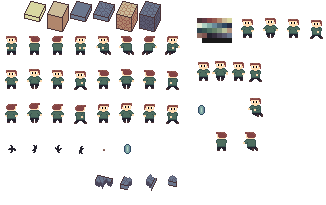
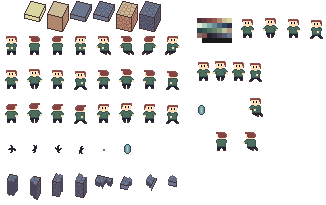
fragile wall animation

Changed region(s): [[0.1534, 0.8488, 0.2761, 0.9659], [0.0, 0.8488, 0.0613, 0.9659], [0.092, 0.8488, 0.1227, 0.9659]]

diff --git a/script/Tiles.js b/script/Tiles.js
@@ -140,7 +140,35 @@ ld49.tiles.FragileWall = class extends Tile {
     }
 
     pullTrigger(game) {
-        game.tiles[this.y][this.x] = new ld49.tiles.Void(this.x, this.y);
+        const tile = new ld49.tiles.FallingWall(this.x, this.y);
+        game.tiles[this.y][this.x] = tile;
+        tile.animate();
+    }
+};
+
+ld49.tiles.FallingWall = class extends Tile {
+    constructor(x, y) {
+        super(6, x, y, false, true, false);
+        this.fall = 0;
+    }
+
+    update(game, dt) {
+        this.fall -= dt * 1.5;
+        if (this.fall < 0) {
+            this.fall = 0;
+        }
+    }
+
+    draw(renderer) {
+        if (this.fall > 0) {
+            const progress = 1 - this.fall;
+            const z = (progress - 0.2) * (progress - 0.2) * -4.5 + 0.18;
+            renderer.draw(this.icon, this.x, this.y, z);
+        }
+    }
+
+    animate() {
+        this.fall = 1;
     }
 };
 

diff --git a/script/Renderer.js b/script/Renderer.js
@@ -11,7 +11,7 @@ ld49.util.Renderer = class {
     draw(icon, x, y, z) {
         z = z ?? 0;
         [x, y, z] = this.transform(x, y, z);
-        const depth = y - x - z * 0.95;
+        const depth = y - x - z * 0.8;
         this.drawings.push({
             icon,
             x,

diff --git a/ideas.md b/ideas.md
@@ -1,5 +1,5 @@
 todo:
-* nice wall break animation
+* ~~nice wall break animation~~
 * levels with breaking wall
 * sounds:
     * floor break
